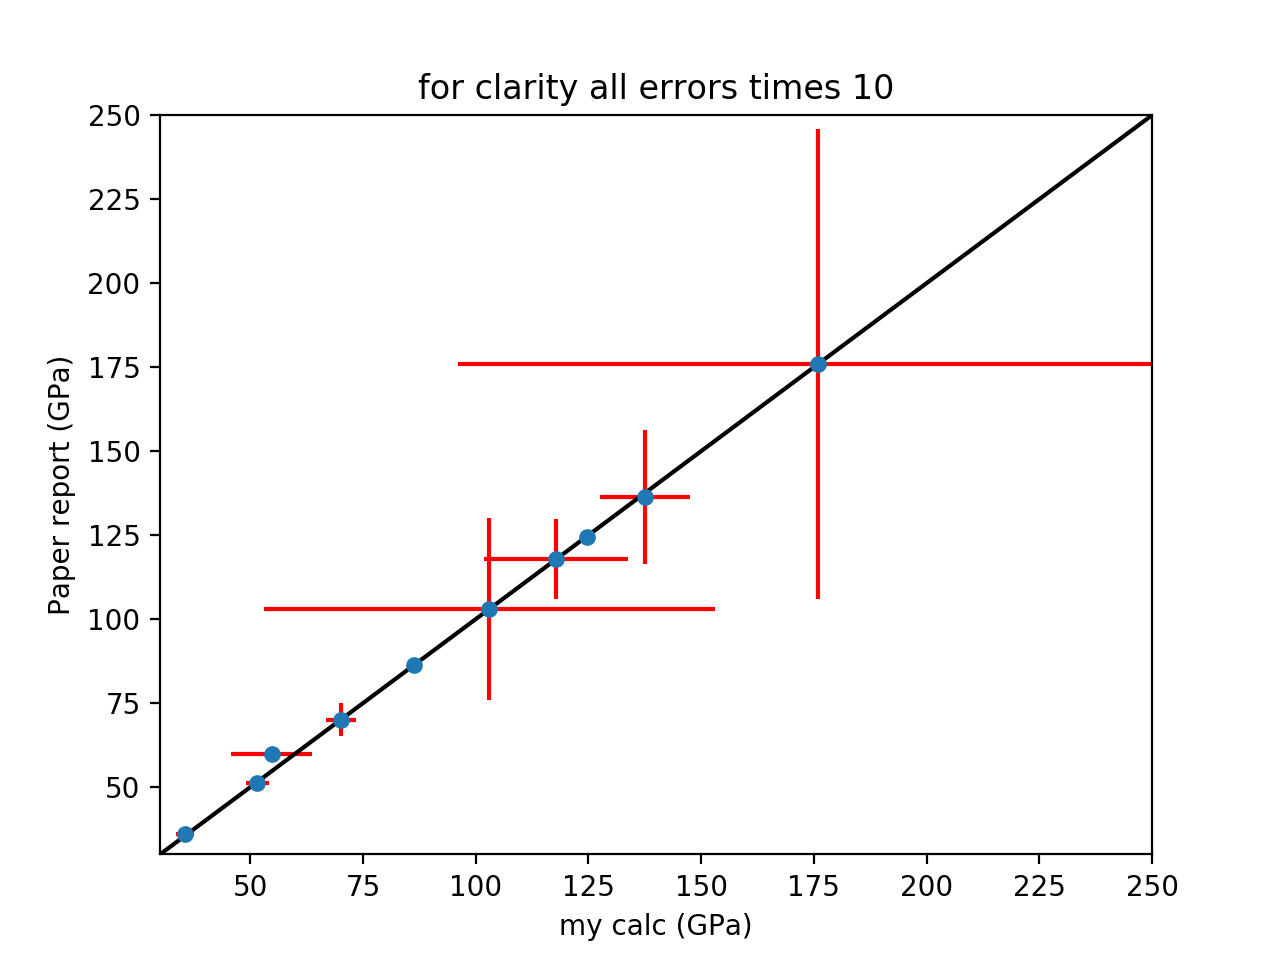
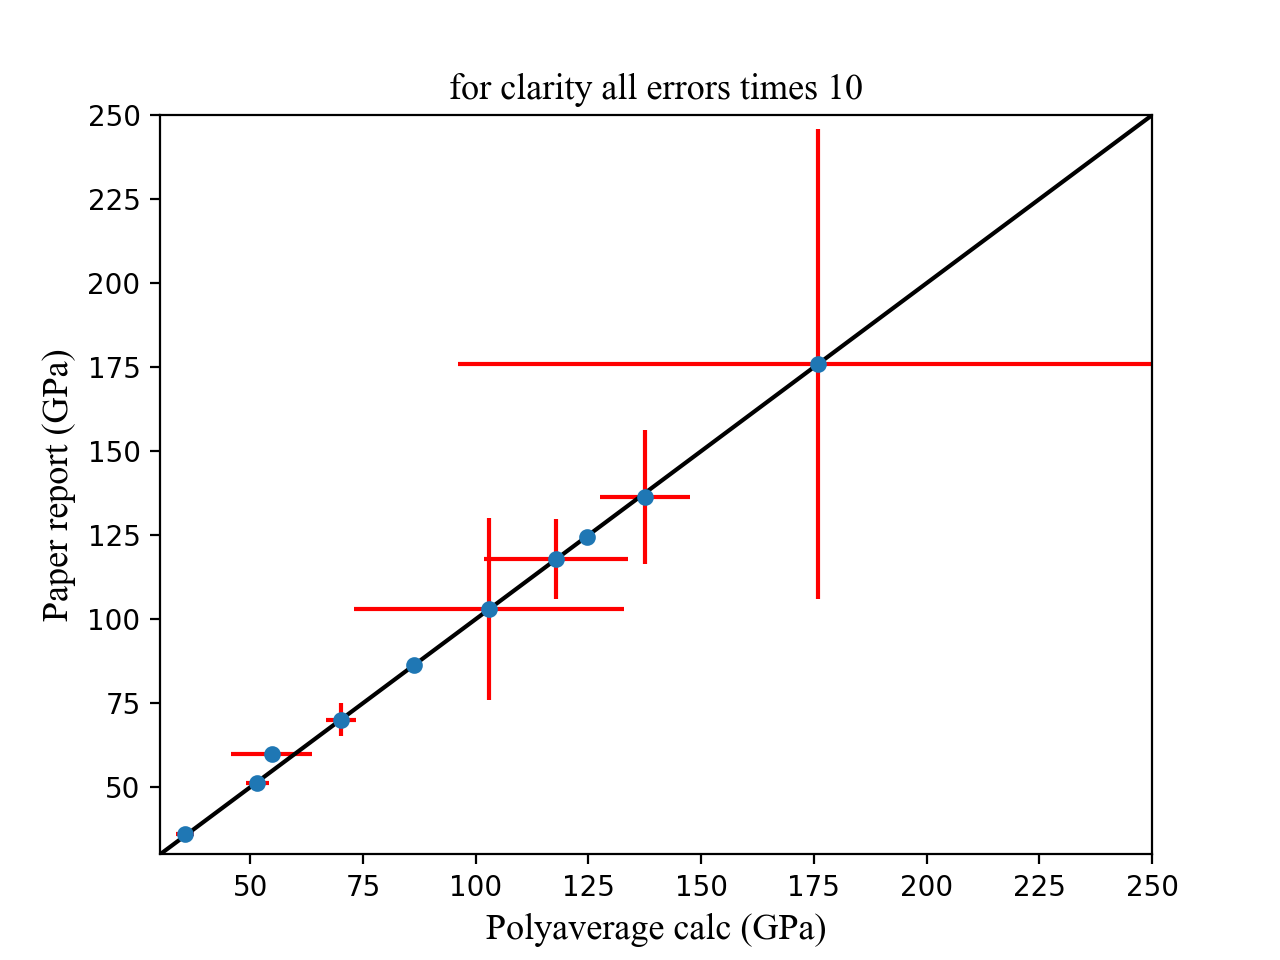
Add files via upload

diff --git a/test_data/compare.py b/test_data/compare.py
@@ -22,7 +22,7 @@ PaperK = ['124.6(0)','136.3(2)','176(7)','60(0)','117.9(1.2)']
 
 
 
-myG = ['86.4(0)','51.62(0.25)','103(5)','35.63(0.20)','70.13(0.33)']
+myG = ['86.4(0)','51.62(0.25)','103(3)','35.63(0.20)','70.13(0.33)']
 PaperG = ['86.4(0)','51.2(0.2)','103(2.7)','36(0)','70.1(0.5)']
 
 fig, ax = plt.subplots()
@@ -39,9 +39,9 @@ y1err = [10*String_to_float(i)[1] for i in PaperG]
 ax.errorbar(x, y, xerr=xerr, yerr=yerr,fmt='.', markersize='10', ecolor='red',)
 ax.errorbar(x1, y1, xerr=x1err, yerr=y1err,fmt='.', markersize='10', ecolor='red',)
 
-ax.set_title('for clarity all errors times 10')
-ax.set_xlabel('my calc (GPa)')
-ax.set_ylabel('Paper report (GPa)')
+ax.set_title('for clarity all errors times 10',fontname="Times New Roman",fontsize=13)
+ax.set_xlabel('Polyaverage calc (GPa)',fontname="Times New Roman",fontsize=13)
+ax.set_ylabel('Paper report (GPa)',fontname="Times New Roman",fontsize=13)
 ax.set_xlim(30,250)
 ax.set_ylim(30,250)
 ax.plot([0,1000],[0,1000],'k')
